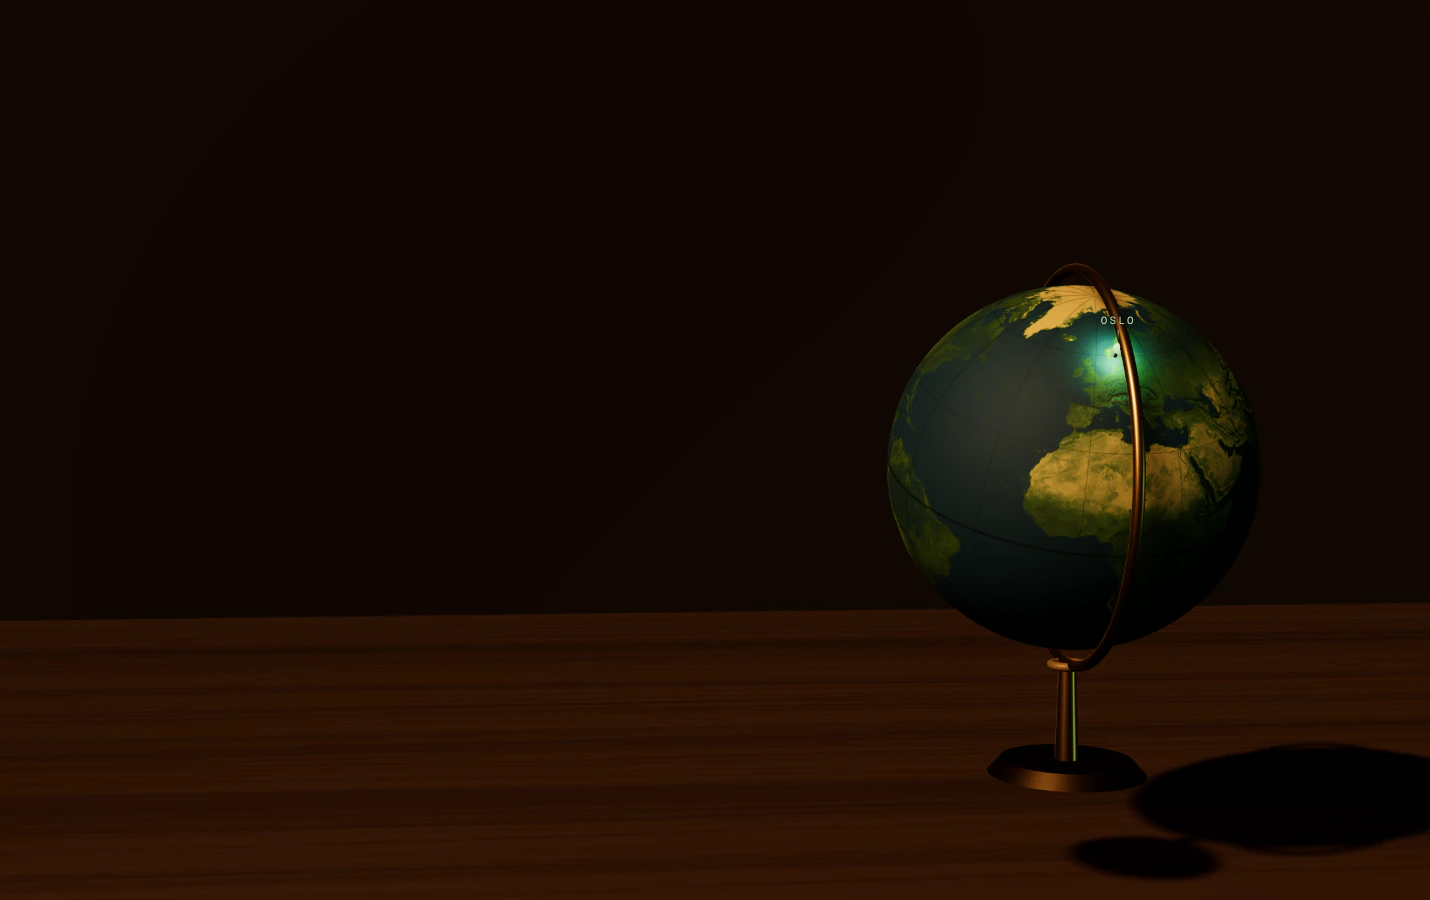
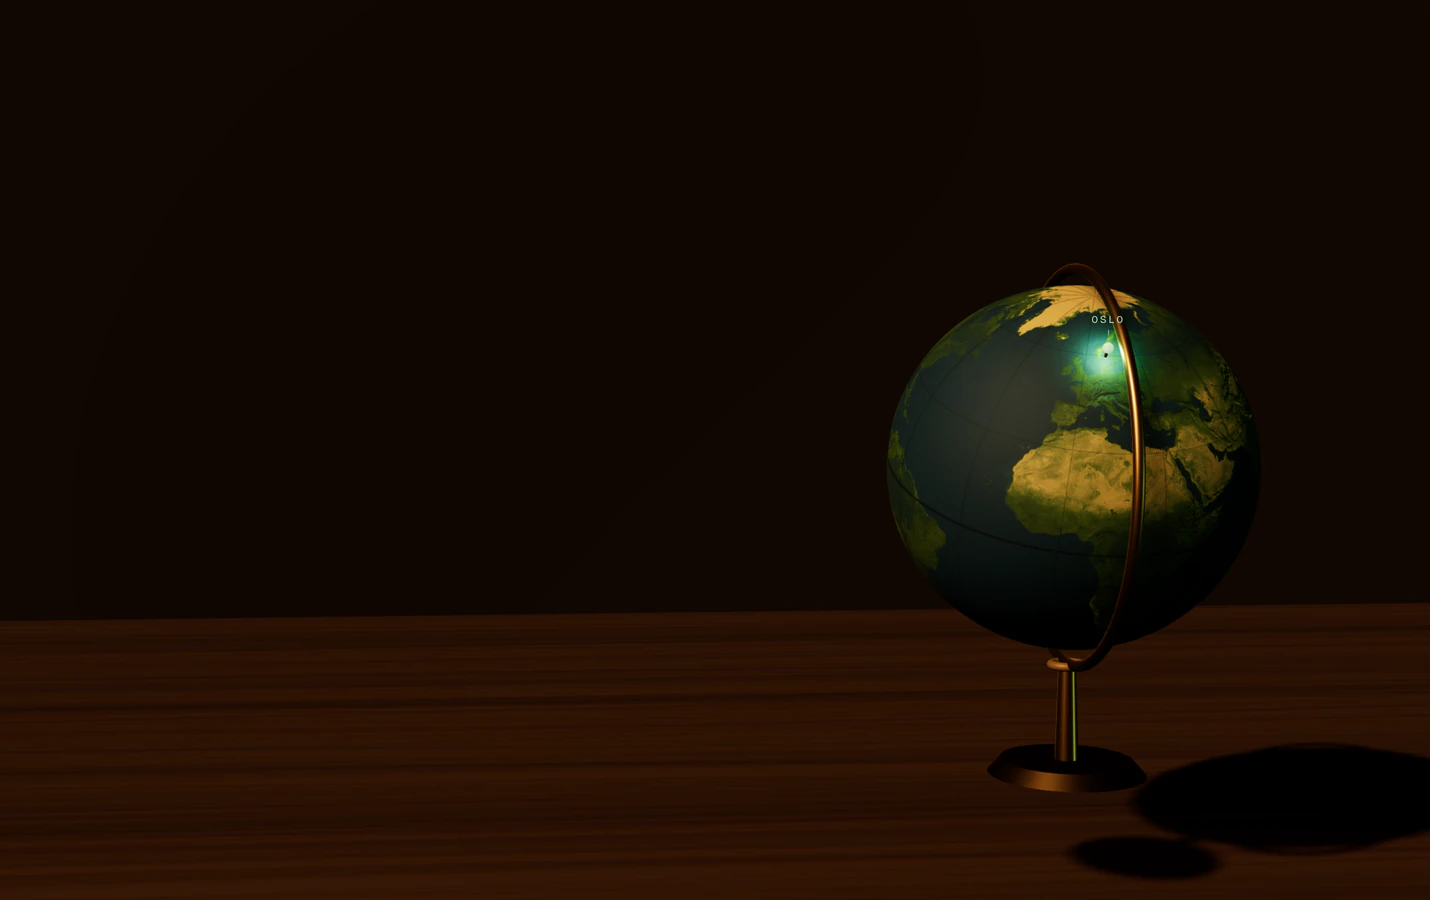
feat(portfolio): add make hero-posters to re-capture the hero stills (#1284)
The three hero stills were screenshots taken by hand, so a change to the
globe or the room left the hero showing a scene that no longer existed.
globe-poster-mobile.jpg still carried the old Oslo pin and polar axle.

make hero-posters builds the prod image and runs scripts/hero-posters.mts
in the pinned Playwright container from compose.smoke.yaml. Chromium
renders WebGL through SwiftShader. The globe is captured at 2x and scaled
down, keeping the brightest of five frames so the Morse pin is lit; the
mobile still is cut from the same frame. The room is captured from its
opening pose behind the intro with everything around the canvas hidden.

All three posters are regenerated at their existing paths, sizes and
formats. The desktop globe and the room match the committed ones; the
mobile globe now shows the current pin and framing.

Changed region(s): [[0.7077, 0.3111, 0.8615, 0.5911], [0.6462, 0.5911, 0.6769, 0.6222]]

diff --git a/docs/backlog/README.md b/docs/backlog/README.md
@@ -122,12 +122,6 @@ Known gaps the team has agreed to leave for later. Each entry: **what**, **why d
 - **Unblock:** Decide whether the globe should read as mechanically correct. If yes, rebuild ring, axle and pedestal together so the ring's plane contains the axis and the collar still meets the ring's lowest point, then re-cut `globe-poster.webp`.
 - **Where:** `portfolio/src/components/InlineGlobeScene.tsx` (the `TILT` constant, the meridian ring mesh and the pedestal meshes).
 
-### Three hero posters are captured by hand
-- **What:** `portfolio/public/images/room-poster.jpg` (640x450, 31KB) is a screenshot of the `/fun` scene. `globe-poster.webp` (1430x906, 34KB) and `globe-poster-mobile.jpg` (780x807, 29KB) are frames of the hero's own globe scene, added 2026-08-23 so phones get the still life at all: under 768px the WebGL scene never mounts, because it measures 211KB of gzipped JS (883KB parsed) plus 577KB of texture. Nothing regenerates any of the three, so a change to the room's furniture, the globe's grade or the camera pose leaves the hero showing a scene that no longer exists. `globe-poster` was re-cut on 2026-09-01 after it had drifted 145px from the live framing and `room-poster` on 2026-09-11 from the room's opening pose; `globe-poster-mobile` is still the 2026-08-23 capture and still carries the pre-2026-09-01 pin.
-- **Why deferred:** Automating it means driving a headless browser with WebGL in CI, hiding overlays, waiting for textures, catching the globe at a rotation where Oslo faces the camera, and committing binaries each run. Disproportionate for images that change a few times a year.
-- **Unblock:** A `make hero-posters` target running Playwright against a local dev server. The recipe, now used three times: activate the scene with a synthetic `pointermove`, wait ~4s so textures resolve but the globe has barely rotated from its Atlantic-facing start, set `visibility: hidden` on every sibling of the globe layer plus the header and footer, then screenshot. For an off-centre crop, insert a transparent fixed-position div at the wanted rect and screenshot that element: `sips` only crops from the centre. Three traps found on the 2026-09-01 re-cut: capture at the same aspect the box displays at, or `object-cover` crops the still away from the render it has to match; the fade wrapper is the backdrop's own child containing the canvas, not `canvas.closest('div').parentElement`, because r3f inserts a div of its own and forcing opacity on the wrong node captures a half-faded frame; and CDP `Emulation.setDeviceMetricsOverride` makes the WebGL layer drop out of screenshots entirely, so set the viewport rather than the device metrics. `cwebp -q 91 -m 6 -sharp_yuv` beats JPEG by roughly 3x on these dark plates.
-- **Where:** `portfolio/public/images/{room-poster,globe-poster-mobile}.jpg`, `portfolio/public/images/globe-poster.webp`, `portfolio/src/components/InlineGlobe.tsx`, `portfolio/src/components/sections/Hero.tsx`, `portfolio/src/components/fun/Room.tsx`.
-
 ### Two material variants still have no callers
 - **What:** `Tag variant="warm"` and `Callout tone="result"` were repainted onto wood and brass, but nothing in the app renders either of them, so those two paths are unexercised. Every other consumer was converted in the full sweep (2026-08-23): `Button` secondary, `ServicesGrid`, the infrastructure packet dots, the command palette, the room HUD.
 - **Why deferred:** Inventing content to justify a variant is backwards. They are correct and waiting for a real use.

diff --git a/docs/apps/portfolio/fun-room.md b/docs/apps/portfolio/fun-room.md
@@ -396,7 +396,8 @@ On phones the loading screen lights one of the room's fittings over the poster p
 (`LoadStage` in `RoomLoading.tsx`): the lantern when the code arrives, the desk lamp when the
 assets are in, the stove while the scene builds. The stove flicker is an opacity animation
 because only the compositor keeps running through the build. The glows are placed in the
-poster's own pixels, so a re-cut `public/images/room-poster.jpg` has to move `LIGHTS` with it.
+poster's own pixels, so a re-cut `public/images/room-poster.jpg` (`make hero-posters`) has to
+move `LIGHTS` with it if the framing changed.
 
 A lost WebGL context must unmount the Canvas, never re-render it. `postprocessing`'s
 `EffectComposer` throws out of `addPass` when it renders against a dead context, and that throw

diff --git a/docs/apps/portfolio/README.md b/docs/apps/portfolio/README.md
@@ -10,3 +10,9 @@ open, the art direction behind it, and the asset list. Read them before proposin
 how the site looks. The LinkedIn banner and its build script live in `portfolio/branding/`.
 
 The 3D flat at `/fun` has its own guide: [fun-room.md](fun-room.md).
+
+The stills the hero shows before or instead of WebGL (`public/images/globe-poster.webp`,
+`globe-poster-mobile.jpg` and `room-poster.jpg`) are frames of the live scenes. After changing
+the globe or the room, run `make hero-posters` in `portfolio/` to re-capture them: it builds the
+prod image and screenshots both scenes with headless Chromium on SwiftShader
+(`scripts/hero-posters.mts`).
